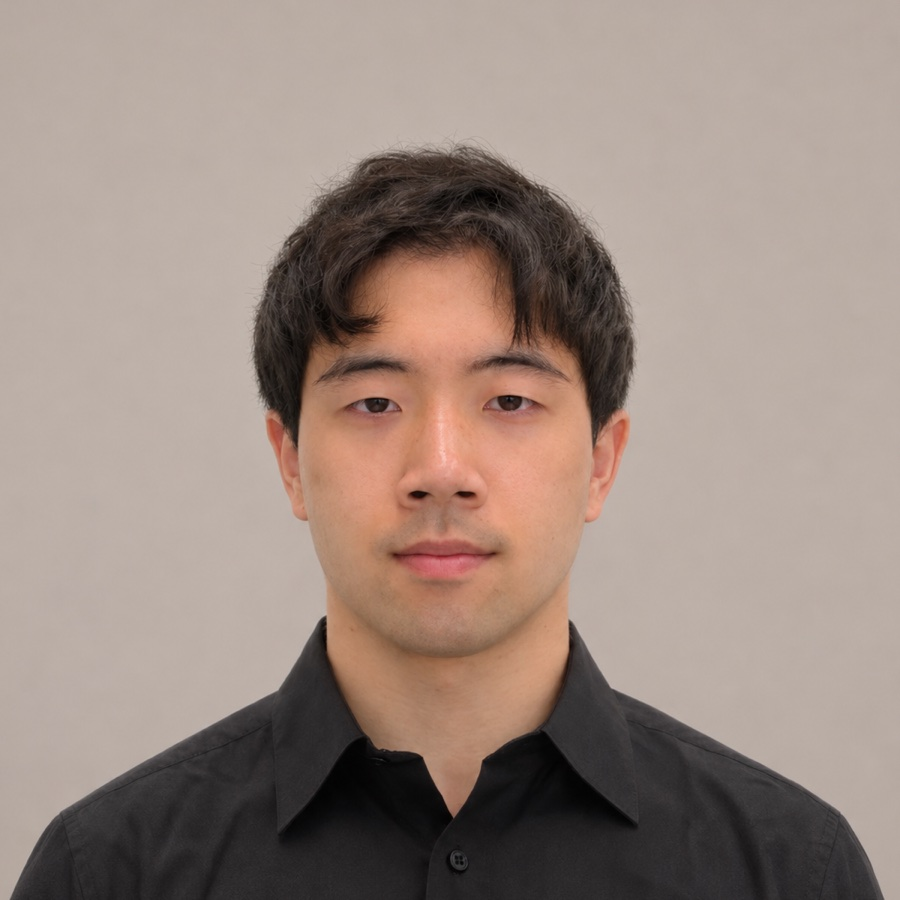
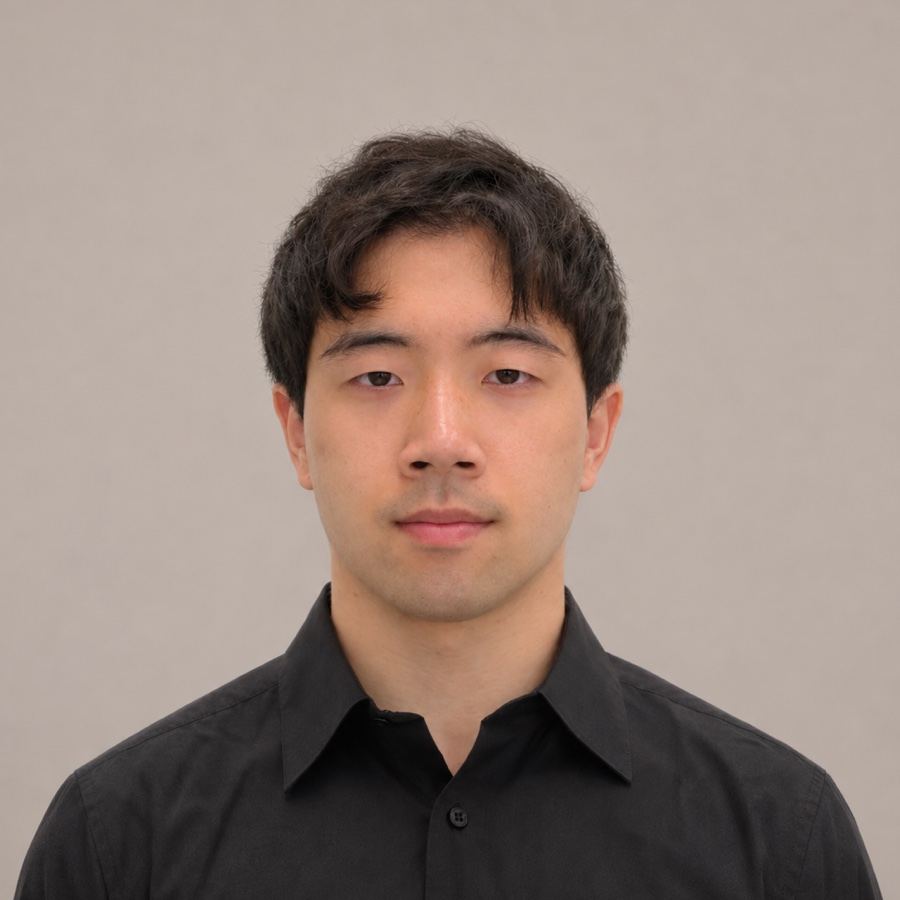
Refine homepage hero: circular portrait, balanced spacing, mobile layout

Changed region(s): [[0.0311, 0.1244, 0.9644, 0.9644], [0.0, 0.9956, 0.0311, 1.0]]

diff --git a/src/routes/index.tsx b/src/routes/index.tsx
@@ -40,28 +40,20 @@ function Index() {
 
   return (
     <section className="flex min-h-[calc(100vh-57px)] items-center md:min-h-screen">
-      <div className="mx-auto grid w-full max-w-5xl items-center gap-10 px-6 py-16 md:grid-cols-[0.9fr_1.1fr] md:py-24">
+      <div className="mx-auto grid w-full max-w-5xl items-center gap-y-8 px-6 py-12 md:py-24 lg:grid-cols-[auto_minmax(0,34rem)] lg:justify-center lg:gap-x-20">
         {/* Portrait */}
-        <div className="relative mx-auto w-full max-w-xs md:mx-0 md:translate-y-4">
-          <div className="blob blob-animated absolute -inset-6 -z-10 bg-secondary" />
-
-          <div className="blob blob-animated aspect-square overflow-hidden shadow-lift">
-            <img
-              src={profilePhoto}
-              alt="Portrait of Davin Win Kyi"
-              width={900}
-              height={900}
-              className="h-full w-full object-cover"
-              style={{
-                objectPosition: "50% 50%",
-                filter: "brightness(1.08)",
-              }}
-            />
-          </div>
+        <div className="w-52 justify-self-center overflow-hidden rounded-full border-[6px] border-secondary shadow-soft md:w-60 lg:w-80 lg:border-8">
+          <img
+            src={profilePhoto}
+            alt="Portrait of Davin Win Kyi"
+            width={900}
+            height={900}
+            className="aspect-square h-full w-full object-cover"
+          />
         </div>
 
         <div>
-          <p className="mb-5 inline-flex items-center gap-2 rounded-full border border-border bg-card px-3 py-1 text-xs font-medium text-muted-foreground">
+          <p className="mb-5 inline-flex items-center gap-2 rounded-full border border-border/70 bg-card px-2.5 py-0.5 text-xs font-medium text-muted-foreground">
             <GraduationCap className="h-3.5 w-3.5 text-primary" />
             University of Washington · CSE
           </p>
